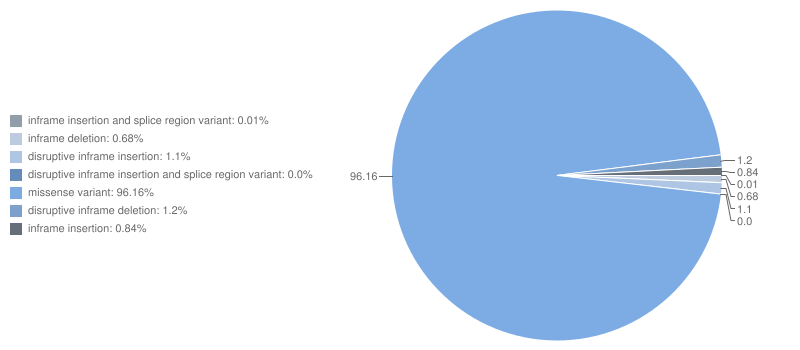
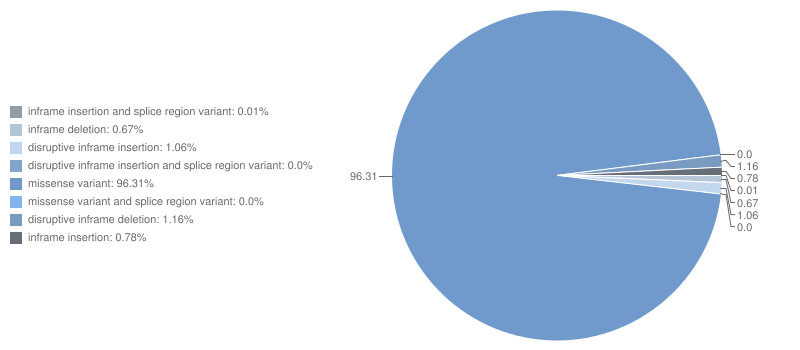
Added updated dashboard graphs.

Changed region(s): [[0.0, 0.2857, 0.4062, 0.7143], [0.9062, 0.4286, 0.9688, 0.6571], [0.4375, 0.4857, 0.4688, 0.5143]]

diff --git a/snpdb/compare_libraries_view.py b/snpdb/compare_libraries_view.py
@@ -123,15 +123,18 @@ def add_snps_from_vcf(vcf_file, libraries, group_libs, snp_dict, wt, impact):
 
 				#Adds all alternate and references alleles
 				for lib in group_libs:
+					libs = lib.encode("ASCII")
+					print lib, libs, lib_dict
+
 					if record.genotype(sample).gt_type == 1:
 						hetero = True
 
 					if hetero:
-						lib_dict[lib]['alt'].update([alt, "Ref"])
+						lib_dict[libs]['alt'].update([alt, "Ref"])
 
 					elif alt:
-						lib_dict[lib]['alt'].update([alt])
-						lib_dict[lib]['effect'] = set([eff])
+						lib_dict[libs]['alt'].update([alt])
+						lib_dict[libs]['effect'] = set([eff])
 
 		if pos not in snp_dict:
 			snp = add_values_to_empty_dictionary(snp, record, alt, lib_dict, gene_length, impact, genes, wt_allele, product, aa_from_start, fmin, fmax)

diff --git a/snpdb/views.py b/snpdb/views.py
@@ -715,7 +715,6 @@ def dump(qs, outfile_path):
 
 		elif isinstance(obj, tuple):
 
-
 			if obj[1] == "HIGH":
 				val = "Changes to CDS Length"
 			elif obj[1] == "LOW":
@@ -740,12 +739,9 @@ def dump(qs, outfile_path):
 
 	writer = csv.writer(open(outfile_path, 'w+'))
 
-	print keys, values, value
 	writer.writerow(keys)
 	for each in value:
 		writer.writerow(each)
-
-
 
 	return value
 
@@ -823,7 +819,6 @@ def save_snp_dashboard_files(chart_path, image_path):
 				ORDER BY effect_string""")
 
 	impact = cursor.fetchall()
-
 	impact_list = dump(impact, chart_path % 'impact')
 
 	impact_snp_total = sum(i[1] for i in impact_list)

diff --git a/snpdb/scripts/snp_dashboard_graphs.py b/snpdb/scripts/snp_dashboard_graphs.py
@@ -6,7 +6,7 @@ import os
 import psycopg2
 import csv
 
-dbh = psycopg2.connect(host='ngsdb', database='ngsdb03aa', user='ngsdb03', password='ngsdb03')
+dbh = psycopg2.connect(host='ngsdb', database='ngsdb03ac', user='ngsdb03', password='ngsdb03')
 cur = dbh.cursor()
 
 path = os.path.join(os.path.abspath(os.path.dirname(__file__)), os.pardir)
